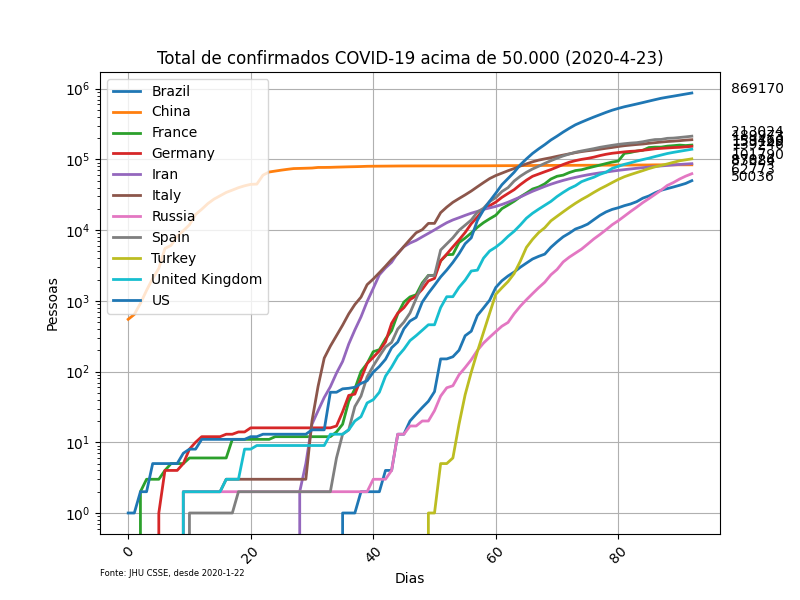
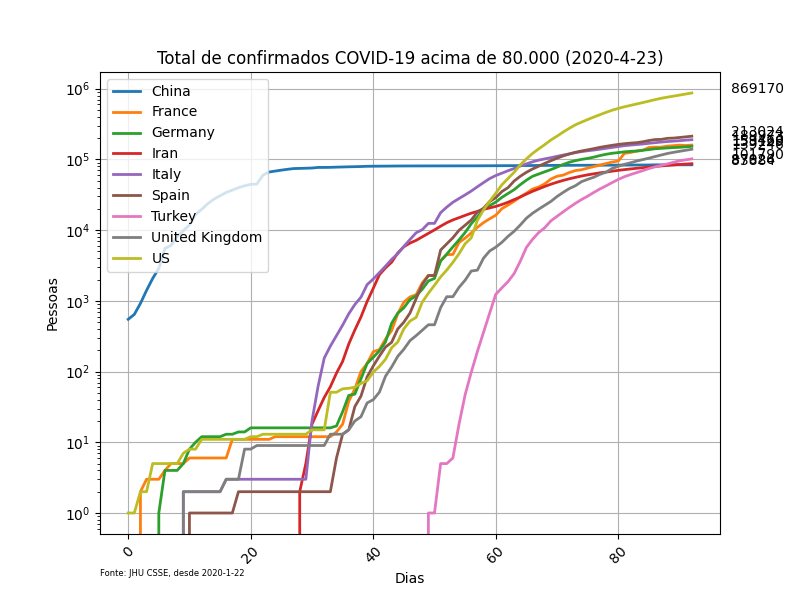
24042020

diff --git a/coronaplot.py b/coronaplot.py
@@ -71,7 +71,7 @@ def overall_cases(log=False):
 
 	translator = Translator()
 	# Superior limit of cases to plot
-	limit = 3500
+	limit = 5000
 	print ("Generating graph Overall Deaths")
 
 	pyplot.figure(figsize=(8,6),facecolor = 'black', dpi=100)
@@ -111,7 +111,7 @@ def overall_cases(log=False):
 		suffix = "_log"
 	else:
 		suffix = ""
-	pyplot.title('Total de mortes COVID-19 acima de 3.500 ('+lastday+')')
+	pyplot.title('Total de mortes COVID-19 acima de 5000 ('+lastday+')')
 	pyplot.xlabel('Dias')
 	pyplot.ylabel('Pessoas')
 	pyplot.annotate('Fonte: JHU CSSE, desde '+dayzero, (0,0), (0,-25), fontsize=6, xycoords='axes fraction', textcoords='offset points', va='top')
@@ -122,7 +122,7 @@ def overall_cases(log=False):
 
 
 	# Superior limit of cases to plot
-	limit = 50000
+	limit = 80000
 	print ("Generating graph Overall Confirmed")
 
 	pyplot.figure(figsize=(8,6),facecolor = 'black', dpi=100)
@@ -162,7 +162,7 @@ def overall_cases(log=False):
 		suffix = "_log"
 	else:
 		suffix = ""
-	pyplot.title('Total de confirmados COVID-19 acima de 50.000 ('+lastday+')')
+	pyplot.title('Total de confirmados COVID-19 acima de 80.000 ('+lastday+')')
 	pyplot.xlabel('Dias')
 	pyplot.ylabel('Pessoas')
 	pyplot.annotate('Fonte: JHU CSSE, desde '+dayzero, (0,0), (0,-25), fontsize=6, xycoords='axes fraction', textcoords='offset points', va='top')
